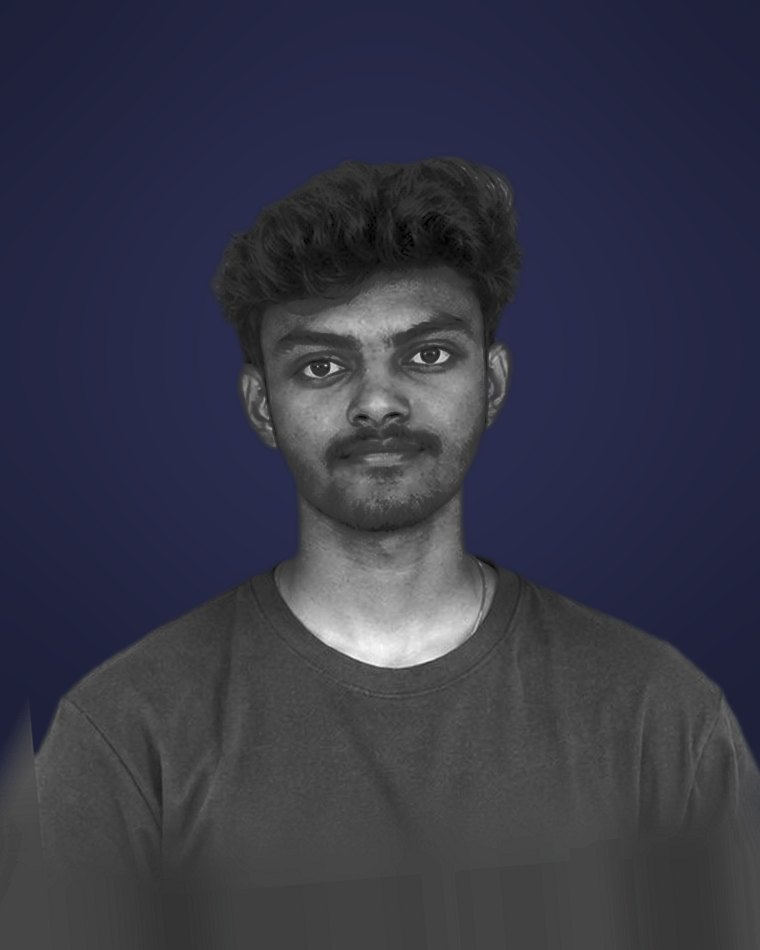
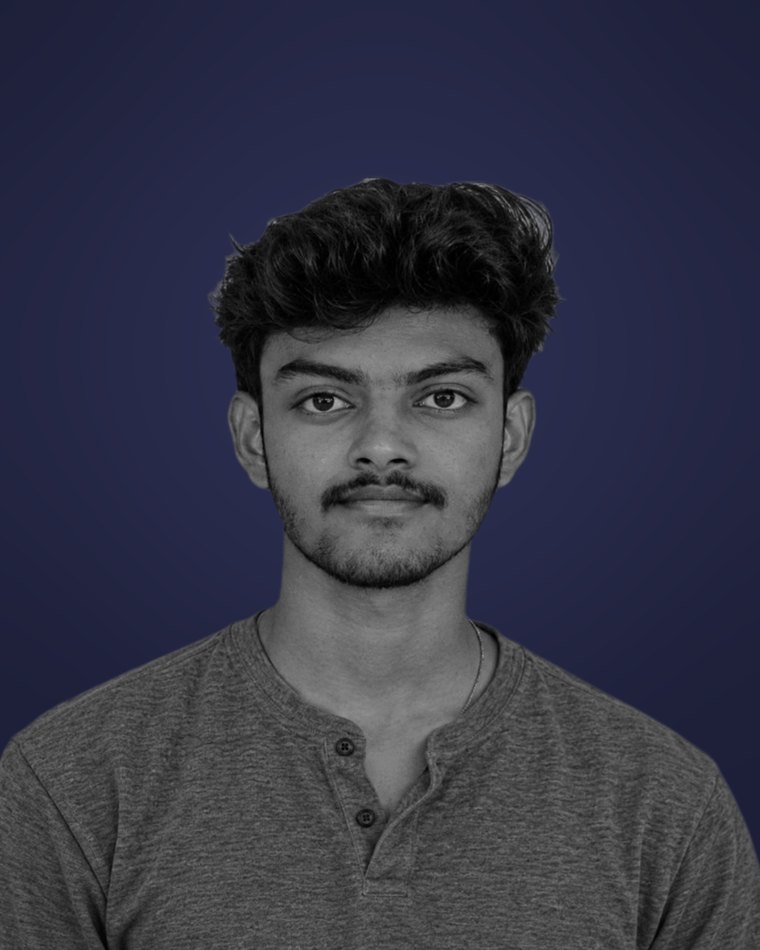
Use Shyan's new photo with only the background removed

diff --git a/scripts/team_photo.py b/scripts/team_photo.py
@@ -37,9 +37,11 @@ PEOPLE = {
     # extended (pad = left, bottom) so the shirt fills the card. cx includes it.
     # raw: not graded like the others. match: instead, measured against the
     # other three cards and matched to them (see match_to_group).
-    # raw on its own: the photo is used as it is. tilt: degrees to turn the
+    # raw on its own: the photo is used as it is (background removed only).
+    # fill_bottom: the photo sits on the card's bottom edge, so the shirt
+    # reaches it without being extended. tilt: degrees to turn the
     # person, counter-clockwise, to match the others' relaxed poses.
-    "shyan": dict(file="shyan-4.jpg", eye=165, chin=278, cx=310, scale=1.0, pad=(60, 260), raw=True, tilt=5, match=True),
+    "shyan": dict(file="shyan-5.png", eye=412, chin=695, cx=625, scale=1.1, raw=True, fill_bottom=True),
 }
 # Everyone is graded to match the face in this photo: its brightness,
 # contrast and soft, deep-black look. It is only measured, never put on a card.
@@ -67,6 +69,8 @@ def cut_out(p, session):
 
 def pad_edges(im, left, bottom):
     """Extend the left and bottom edges by repeating the outermost pixels."""
+    import numpy as np
+
     w, h = im.size
     # Where the cut-out fades out, its colour is still the old (light) wall;
     # take it towards the dark shirt first, so none of it spreads.
@@ -93,14 +97,32 @@ def pad_edges(im, left, bottom):
             arr[:, i, 3] = np.concatenate([np.zeros(drop, a.dtype), a[: h - drop, i]])
         out.paste(Image.fromarray(arr, "RGBA"), (0, 0))
     if bottom:
-        out.paste(out.crop((0, h - 1, w + left, h)).resize((w + left, bottom), Image.NEAREST), (0, h))
+        # The shirt's last rows, averaged and smoothed sideways, then given
+        # the same fine fabric grain, so the extension reads as more shirt.
+        W = w + left
+        row = out.crop((0, h - 30, W, h)).resize((W, 1), Image.BOX)
+        row = row.resize((max(2, W // 16), 1), Image.BOX).resize((W, 1), Image.BICUBIC)
+        ext = np.array(row.resize((W, bottom), Image.NEAREST)).astype(np.float32)
+        band = np.asarray(ImageOps.grayscale(out.crop((0, h - 120, W, h)).convert("RGB")), dtype=np.float32)
+        band_a = np.asarray(out.crop((0, h - 120, W, h)).getchannel("A")) > 200
+        smooth = np.asarray(
+            ImageOps.grayscale(out.crop((0, h - 120, W, h)).convert("RGB")).filter(ImageFilter.GaussianBlur(3)),
+            dtype=np.float32,
+        )
+        texture = float((band - smooth)[band_a].std()) if band_a.any() else 0.0
+        noise = np.random.default_rng(11).normal(0, texture, (bottom, W)).astype(np.float32)
+        noise = np.asarray(Image.fromarray((noise + 128).clip(0, 255).astype(np.uint8)).filter(ImageFilter.GaussianBlur(0.6)), dtype=np.float32) - 128
+        ext[:, :, :3] = (ext[:, :, :3] + noise[:, :, None]).clip(0, 255)
+        out.paste(Image.fromarray(ext.astype(np.uint8), "RGBA"), (0, h))
         # Soften the join so no band shows where the extension starts.
         seam = 60
         box = (0, h - seam, w + left, h + bottom)
-        blurred = out.crop(box).filter(ImageFilter.GaussianBlur(14))
-        ramp = Image.linear_gradient("L").resize((w + left, seam))
-        mask = Image.new("L", (w + left, seam + bottom), 255)
-        mask.paste(ramp, (0, 0))
+        blurred = out.crop(box).filter(ImageFilter.GaussianBlur(4))
+        # Blur only across the join (fading in above it and out below it),
+        # so the grain of the extension stays.
+        mask = Image.new("L", (w + left, seam + bottom), 0)
+        mask.paste(Image.linear_gradient("L").resize((w + left, seam)), (0, 0))
+        mask.paste(Image.linear_gradient("L").rotate(180).resize((w + left, 40)), (0, seam))
         out.paste(blurred, box[:2], mask)
     return out
 
@@ -115,6 +137,8 @@ def place(im, p):
     im = im.resize((round(im.width * s), round(im.height * s)), Image.LANCZOS)
     x = round(CARD[0] / 2 - p["cx"] * s)
     y = round(EYE_Y - (p["eye"] - y0) * s)
+    if p.get("fill_bottom"):
+        y = CARD[1] - im.height
     # A little extra room all round, so a tilt never leaves empty corners.
     m = 260 if p.get("tilt") else 0
     canvas = Image.new("RGBA", (CARD[0] + 2 * m, CARD[1] + 2 * m), (0, 0, 0, 0))
